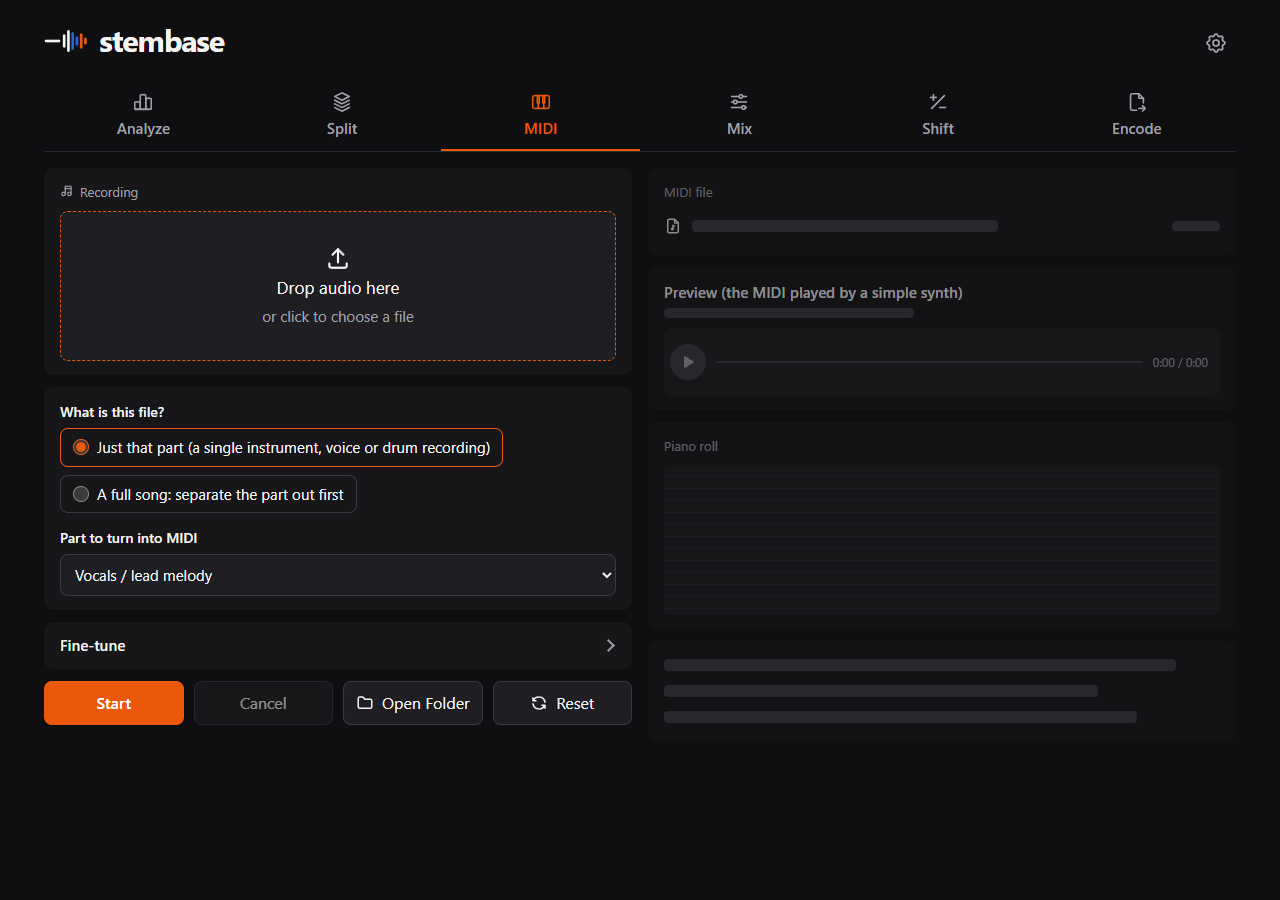
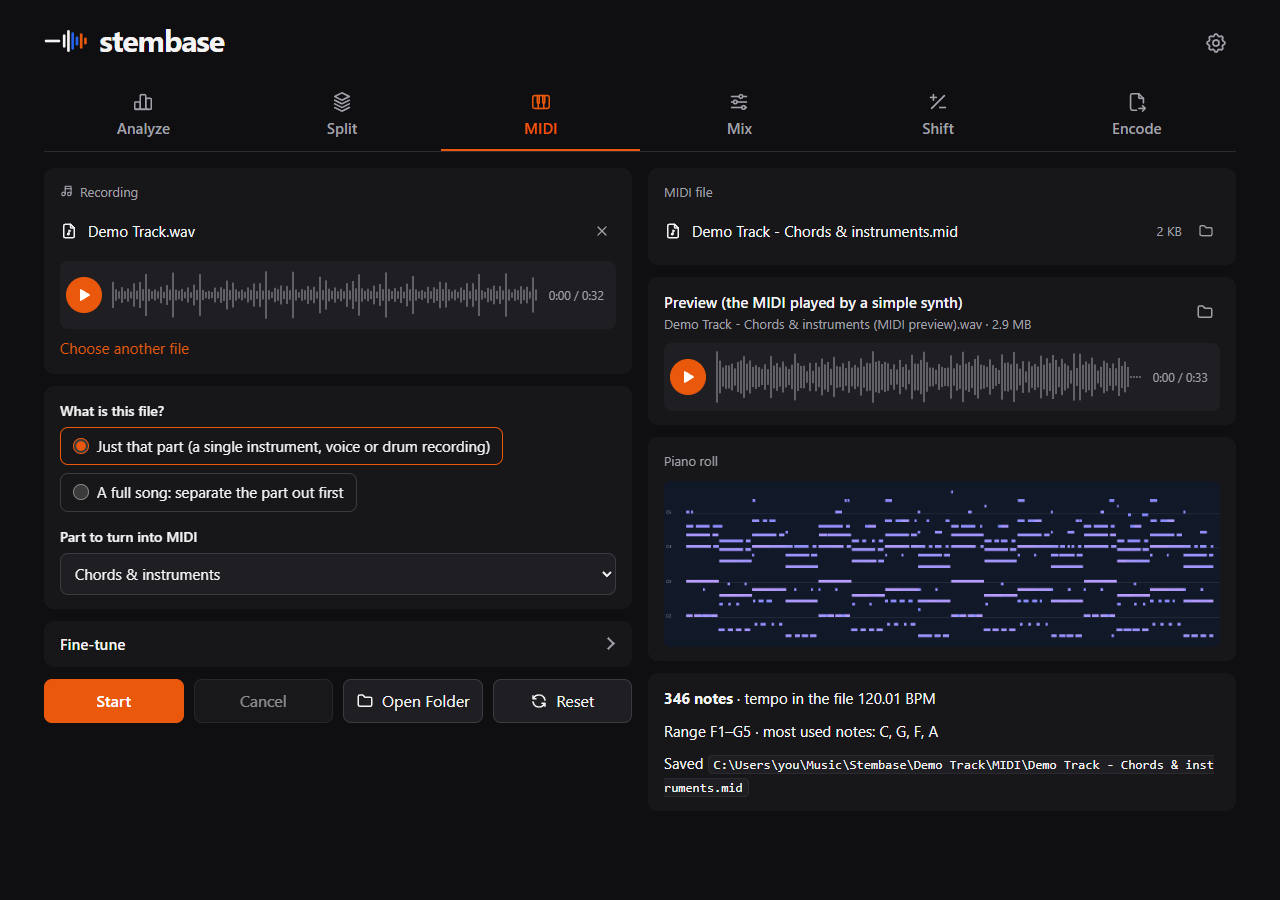
README: a screenshot of every tab under Tabs

diff --git a/README.md b/README.md
@@ -25,9 +25,13 @@ Uninstalling keeps your results.
 | **Shift** | Shift by semitones and/or set a target BPM (the current tempo is detected for you). |
 | **Encode** | Convert any number of files between WAV, AIFF, FLAC, MP3, Opus and Ogg Vorbis, or fit each file into a size in MB. |
 
-| Split: five stems, each with its own player | MIDI before a job: the right side shows what will appear |
+| Analyze | Split |
 |---|---|
-| ![Split tab with vocals, drums, bass, other instruments and instrumental stems](docs/screenshots/split.png) | ![MIDI tab with the outline of its results](docs/screenshots/midi.png) |
+| ![Analyze tab: key, tempo, loudness, length and chords](docs/screenshots/analyze.png) | ![Split tab: vocals, drums, bass, other instruments and an instrumental, each with a player](docs/screenshots/split.png) |
+| **MIDI** | **Mix** |
+| ![MIDI tab: the MIDI file, a synth preview and a piano roll](docs/screenshots/midi.png) | ![Mix tab with two tracks loaded; before a job, the right side shows what will appear](docs/screenshots/mix.png) |
+| **Shift** | **Encode** |
+| ![Shift tab: up 2 semitones and to 128 BPM](docs/screenshots/shift.png) | ![Encode tab: a WAV converted to MP3 with a before-and-after table](docs/screenshots/encode.png) |
 
 Drop files anywhere on a tab's drop zone, or click it to choose. Every job shows its progress in a window, then
 confirms where it saved the result. If you load a file that was already processed, Stembase says so and offers the folder.
